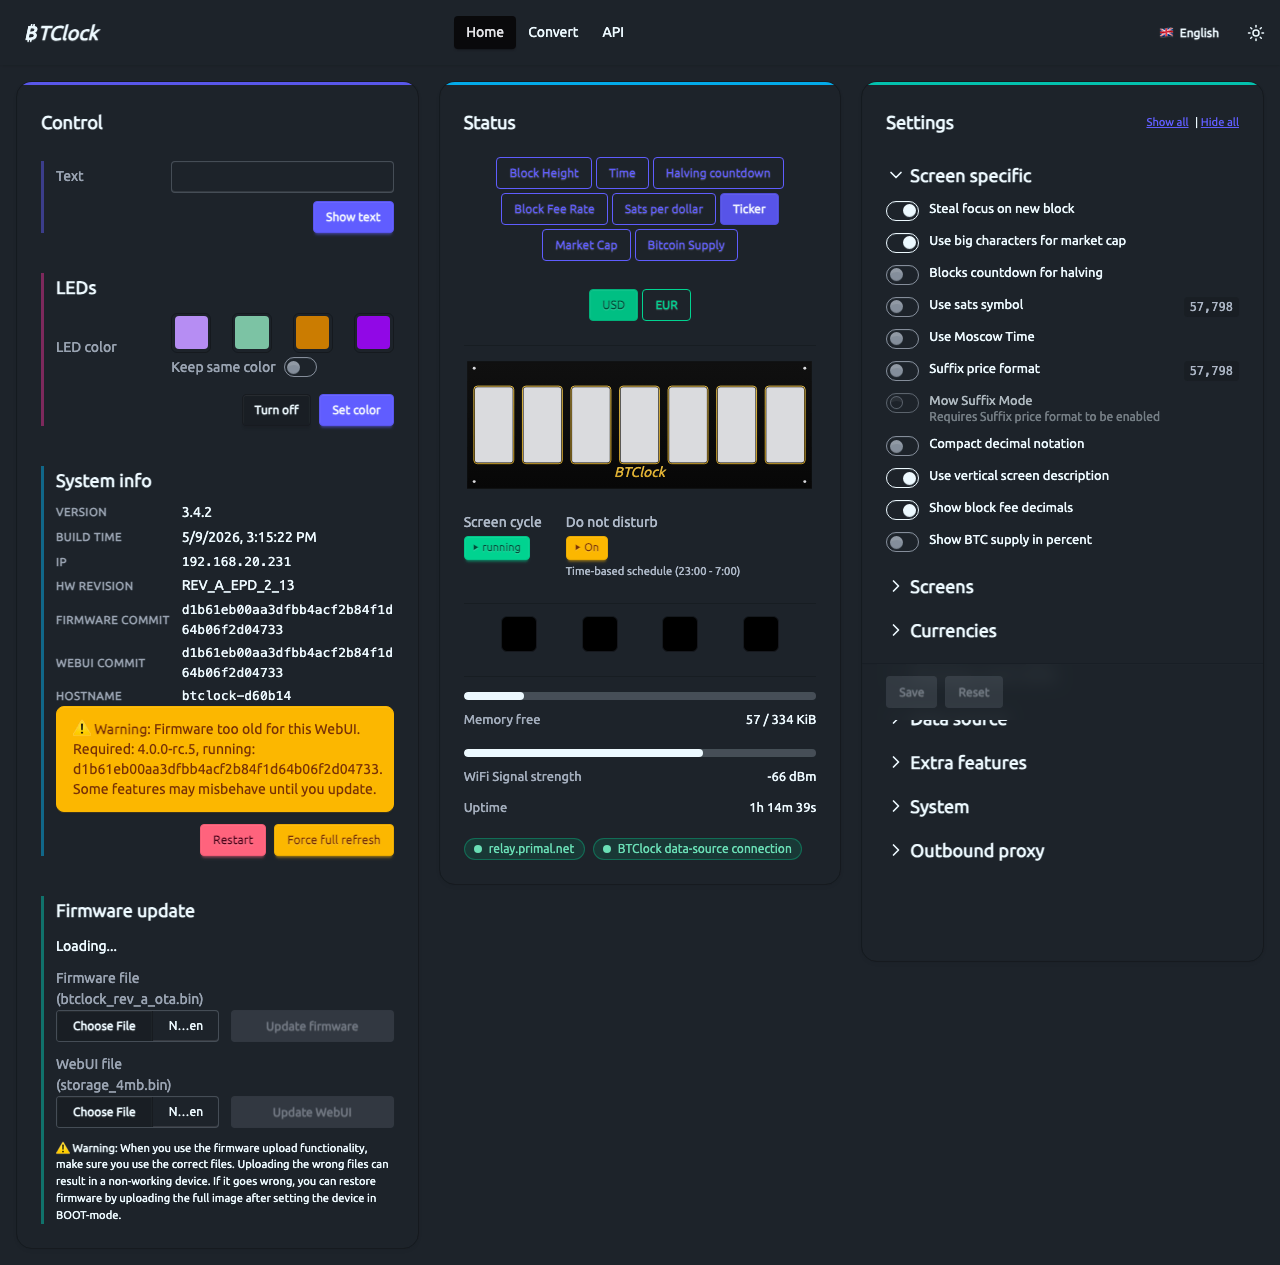
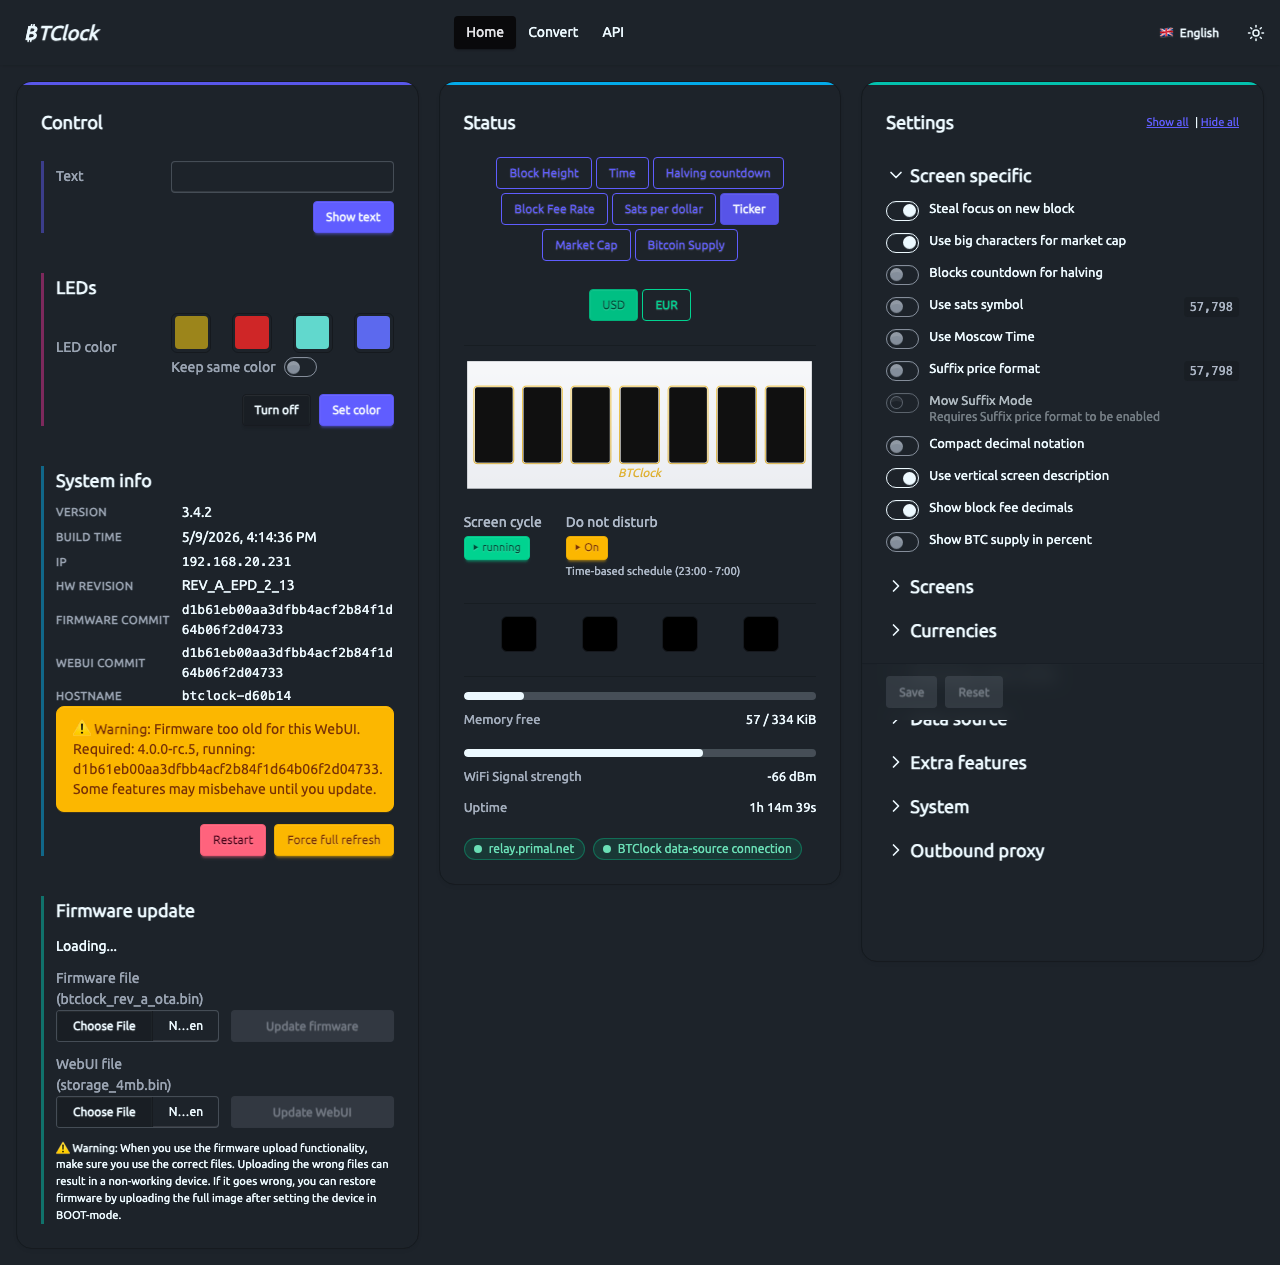
feat(status): update framebuffer preview visuals and test compatibility
Refresh framebuffer preview documentation screenshots/debug captures and harden theme auto-detection so Status tests pass when matchMedia is unavailable.

Changed region(s): [[0.3438, 0.2775, 0.6562, 0.4008], [0.125, 0.2466, 0.3125, 0.2775]]

diff --git a/src/lib/features/status/FramebufferPreview.svelte b/src/lib/features/status/FramebufferPreview.svelte
@@ -1,6 +1,7 @@
 <script lang="ts">
 	import { previewWsUrl } from '$lib/api/client';
 	import { settingsStore } from '$lib/stores/settings.svelte';
+	import { theme } from '$lib/stores/theme.svelte';
 	import {
 		decodeFramebufferPreviewPacket,
 		framebufferBitToLuma,
@@ -19,6 +20,18 @@
 	const PANEL_RADIUS_MM = 1.5;
 	const GOLD_RING_W_MM = 0.6;
 	const GOLD_RING_GAP_MM = 0.4;
+	const WORDMARK_CAP_MM = 7.5;
+	const CUTOUT_RADIUS_PX = 1;
+	const CUTOUT_OVERLAP_PX = 1;
+	const COMPOSITE_SSAA = 2;
+	const PANEL_CONTENT_UPSCALE = 2;
+	const PANEL_FACE_LIGHT = '#dadbde';
+	const PANEL_FACE_DARK = '#101010';
+	const CHROME_BOARD_LIGHT_TOP = '#101010';
+	const CHROME_BOARD_LIGHT_BOTTOM = '#070707';
+	const CHROME_BOARD_DARK_TOP = '#f7f8fa';
+	const CHROME_BOARD_DARK_BOTTOM = '#eceef2';
+	const CHROME_PANEL_DARK = '#f3f4f6';
 	const ASPECT_RATIO = (FRAME_W_MM + 2 * VIEWBOX_PAD_MM) / (FRAME_H_MM + 2 * VIEWBOX_PAD_MM);
 	const DEFAULT_PANEL_COUNT = 7;
 
@@ -30,10 +43,13 @@
 
 	let stageEl: HTMLDivElement | undefined;
 	let canvasEl: HTMLCanvasElement | undefined;
+	let compositeCanvas: HTMLCanvasElement | null = null;
+	let panelUpscaleCanvas: HTMLCanvasElement | null = null;
 	let fittedWidthPx = $state(0);
 	let fittedHeightPx = $state(0);
 	let panelRasterByIndex = $state<Record<number, HTMLCanvasElement>>({});
 	const invertedColor = $derived(Boolean(settingsStore.data?.invertedColor));
+	const darkThemeChrome = $derived(theme.effective === 'dark');
 	let reconnectTimer: ReturnType<typeof setTimeout> | null = null;
 	let reconnectAttempt = 0;
 	let tearingDown = false;
@@ -90,7 +106,7 @@
 		const orientedCtx = oriented.getContext('2d');
 		if (!orientedCtx) return null;
 		orientedCtx.imageSmoothingEnabled = false;
-		orientedCtx.fillStyle = '#dadbde';
+		orientedCtx.fillStyle = useInvertedColor ? PANEL_FACE_DARK : PANEL_FACE_LIGHT;
 		orientedCtx.fillRect(0, 0, targetW, targetH);
 		orientedCtx.save();
 		if (rotation === 90) {
@@ -108,9 +124,14 @@
 		return oriented;
 	};
 
-	const drawWordmark = (ctx: CanvasRenderingContext2D, midXPx: number, baselineYPx: number) => {
+	const drawWordmark = (
+		ctx: CanvasRenderingContext2D,
+		midXPx: number,
+		baselineYPx: number,
+		mmToPx: number
+	) => {
 		const text = 'BTClock';
-		const sizePx = Math.max(14, fittedHeightPx * 0.096);
+		const sizePx = WORDMARK_CAP_MM * mmToPx;
 		ctx.save();
 		ctx.font = `italic 500 ${sizePx}px "Ubuntu", "Antonio", sans-serif`;
 		ctx.textAlign = 'center';
@@ -123,19 +144,64 @@
 		ctx.restore();
 	};
 
+	const ensureCanvasSize = (
+		existing: HTMLCanvasElement | null,
+		width: number,
+		height: number
+	) => {
+		const canvas = existing ?? document.createElement('canvas');
+		if (canvas.width !== width) canvas.width = width;
+		if (canvas.height !== height) canvas.height = height;
+		return canvas;
+	};
+
+	const drawPanelRaster = (
+		ctx: CanvasRenderingContext2D,
+		raster: HTMLCanvasElement,
+		x: number,
+		y: number,
+		w: number,
+		h: number,
+		bg: string
+	) => {
+		const upW = Math.max(1, Math.round(w * PANEL_CONTENT_UPSCALE));
+		const upH = Math.max(1, Math.round(h * PANEL_CONTENT_UPSCALE));
+		panelUpscaleCanvas = ensureCanvasSize(panelUpscaleCanvas, upW, upH);
+		const upCtx = panelUpscaleCanvas.getContext('2d');
+		if (!upCtx) return;
+
+		upCtx.clearRect(0, 0, upW, upH);
+		upCtx.fillStyle = bg;
+		upCtx.fillRect(0, 0, upW, upH);
+		upCtx.imageSmoothingEnabled = false;
+		upCtx.drawImage(raster, 0, 0, upW, upH);
+
+		ctx.imageSmoothingEnabled = true;
+		ctx.imageSmoothingQuality = 'medium';
+		ctx.drawImage(panelUpscaleCanvas, x, y, w, h);
+	};
+
 	const redrawComposite = () => {
 		if (!canvasEl || fittedWidthPx <= 0 || fittedHeightPx <= 0) return;
 		const dpr = window.devicePixelRatio || 1;
 		canvasEl.width = Math.max(1, Math.round(fittedWidthPx * dpr));
 		canvasEl.height = Math.max(1, Math.round(fittedHeightPx * dpr));
-		const ctx = canvasEl.getContext('2d');
+		const displayCtx = canvasEl.getContext('2d');
+		if (!displayCtx) return;
+
+		const ssaa = fittedWidthPx < 1200 ? COMPOSITE_SSAA : 1;
+		const compositeW = Math.max(1, Math.round(fittedWidthPx * ssaa));
+		const compositeH = Math.max(1, Math.round(fittedHeightPx * ssaa));
+		compositeCanvas = ensureCanvasSize(compositeCanvas, compositeW, compositeH);
+		const ctx = compositeCanvas.getContext('2d');
 		if (!ctx) return;
 
-		ctx.setTransform(dpr, 0, 0, dpr, 0, 0);
+		ctx.setTransform(1, 0, 0, 1, 0, 0);
+		ctx.clearRect(0, 0, compositeW, compositeH);
 		ctx.imageSmoothingEnabled = true;
-		ctx.clearRect(0, 0, fittedWidthPx, fittedHeightPx);
+		ctx.imageSmoothingQuality = 'high';
 
-		const mmToPx = fittedWidthPx / (FRAME_W_MM + 2 * VIEWBOX_PAD_MM);
+		const mmToPx = compositeW / (FRAME_W_MM + 2 * VIEWBOX_PAD_MM);
 		const mapMm = (valueMm: number) => (valueMm + VIEWBOX_PAD_MM) * mmToPx;
 
 		const pcbX = mapMm(0);
@@ -144,13 +210,22 @@
 		const pcbH = FRAME_H_MM * mmToPx;
 
 		const boardGrad = ctx.createLinearGradient(0, pcbY, 0, pcbY + pcbH);
-		boardGrad.addColorStop(0, '#101010');
-		boardGrad.addColorStop(1, '#070707');
+		boardGrad.addColorStop(0, darkThemeChrome ? CHROME_BOARD_DARK_TOP : CHROME_BOARD_LIGHT_TOP);
+		boardGrad.addColorStop(
+			1,
+			darkThemeChrome ? CHROME_BOARD_DARK_BOTTOM : CHROME_BOARD_LIGHT_BOTTOM
+		);
 		ctx.fillStyle = boardGrad;
 		ctx.fillRect(pcbX, pcbY, pcbW, pcbH);
 
 		const renderFrames = orderedFrames.length > 0 ? orderedFrames : [];
 		const panelCount = Math.max(renderFrames.length, DEFAULT_PANEL_COUNT);
+		const panelFace = invertedColor
+			? PANEL_FACE_DARK
+			: darkThemeChrome
+				? CHROME_PANEL_DARK
+				: PANEL_FACE_LIGHT;
+		const rasterBackdrop = invertedColor ? PANEL_FACE_DARK : PANEL_FACE_LIGHT;
 		for (let i = 0; i < panelCount; i++) {
 			const frame = renderFrames[i];
 			const raster = frame ? panelRasterByIndex[frame.panelIndex] : undefined;
@@ -176,22 +251,67 @@
 			ctx.roundRect(ringX, ringY, ringW, ringH, ringR);
 			ctx.stroke();
 
-			ctx.fillStyle = '#dadbde';
+			ctx.fillStyle = panelFace;
 			ctx.beginPath();
 			ctx.roundRect(panelX, panelY, panelW, panelH, panelR);
 			ctx.fill();
 
 			if (!raster) continue;
-			ctx.imageSmoothingEnabled = false;
 			const innerX = mapMm(xMm + PANEL_BEZEL_MM);
 			const innerY = mapMm(yMm + PANEL_BEZEL_MM);
 			const innerW = (PANEL_W_MM - 2 * PANEL_BEZEL_MM) * mmToPx;
 			const innerH = (PANEL_H_MM - 2 * PANEL_BEZEL_MM) * mmToPx;
-			ctx.drawImage(raster, innerX, innerY, innerW, innerH);
-			ctx.imageSmoothingEnabled = true;
+			const snappedInnerX = Math.round(innerX);
+			const snappedInnerY = Math.round(innerY);
+			const snappedInnerW = Math.max(1, Math.round(innerW));
+			const snappedInnerH = Math.max(1, Math.round(innerH));
+			ctx.save();
+			ctx.beginPath();
+			ctx.roundRect(
+				snappedInnerX,
+				snappedInnerY,
+				snappedInnerW,
+				snappedInnerH,
+				CUTOUT_RADIUS_PX
+			);
+			ctx.clip();
+			ctx.fillStyle = rasterBackdrop;
+			ctx.fillRect(snappedInnerX, snappedInnerY, snappedInnerW, snappedInnerH);
+			drawPanelRaster(
+				ctx,
+				raster,
+				snappedInnerX,
+				snappedInnerY,
+				snappedInnerW,
+				snappedInnerH,
+				rasterBackdrop
+			);
+			ctx.restore();
+			// Keep a tiny bezel overlap over panel content edges to hide
+			// interpolation halos while preserving rounded cutout corners.
+			// Draw this stroke fully INSIDE the panel content so it remains
+			// visible even when the outer half would blend into the bezel.
+			const overlapInset = CUTOUT_OVERLAP_PX;
+			ctx.strokeStyle = panelFace;
+			ctx.lineWidth = CUTOUT_OVERLAP_PX * 2;
+			ctx.beginPath();
+			ctx.roundRect(
+				snappedInnerX + overlapInset,
+				snappedInnerY + overlapInset,
+				snappedInnerW - overlapInset * 2,
+				snappedInnerH - overlapInset * 2,
+				CUTOUT_RADIUS_PX
+			);
+			ctx.stroke();
 		}
 
-		drawWordmark(ctx, mapMm(FRAME_W_MM / 2), mapMm(FRAME_H_MM - 7.375));
+		drawWordmark(ctx, mapMm(FRAME_W_MM / 2), mapMm(FRAME_H_MM - 7.375), mmToPx);
+
+		displayCtx.setTransform(dpr, 0, 0, dpr, 0, 0);
+		displayCtx.clearRect(0, 0, fittedWidthPx, fittedHeightPx);
+		displayCtx.imageSmoothingEnabled = ssaa > 1;
+		displayCtx.imageSmoothingQuality = 'high';
+		displayCtx.drawImage(compositeCanvas, 0, 0, fittedWidthPx, fittedHeightPx);
 	};
 
 	const updateFit = () => {

diff --git a/src/lib/stores/theme.svelte.ts b/src/lib/stores/theme.svelte.ts
@@ -4,7 +4,12 @@ export type ThemeMode = 'light' | 'dark' | 'auto';
 
 const KEY = 'color-scheme';
 
-const prefersDark = () => browser && window.matchMedia('(prefers-color-scheme: dark)').matches;
+const getColorSchemeMediaQuery = () =>
+	browser && typeof window.matchMedia === 'function'
+		? window.matchMedia('(prefers-color-scheme: dark)')
+		: null;
+
+const prefersDark = () => getColorSchemeMediaQuery()?.matches ?? false;
 
 const effective = (mode: ThemeMode) =>
 	mode === 'auto' ? (prefersDark() ? 'dark' : 'light') : mode;
@@ -25,9 +30,7 @@ const state = $state({ mode: read() });
 
 if (browser) {
 	apply(state.mode);
-	window
-		.matchMedia('(prefers-color-scheme: dark)')
-		.addEventListener('change', () => apply(state.mode));
+	getColorSchemeMediaQuery()?.addEventListener('change', () => apply(state.mode));
 }
 
 export const theme = {
